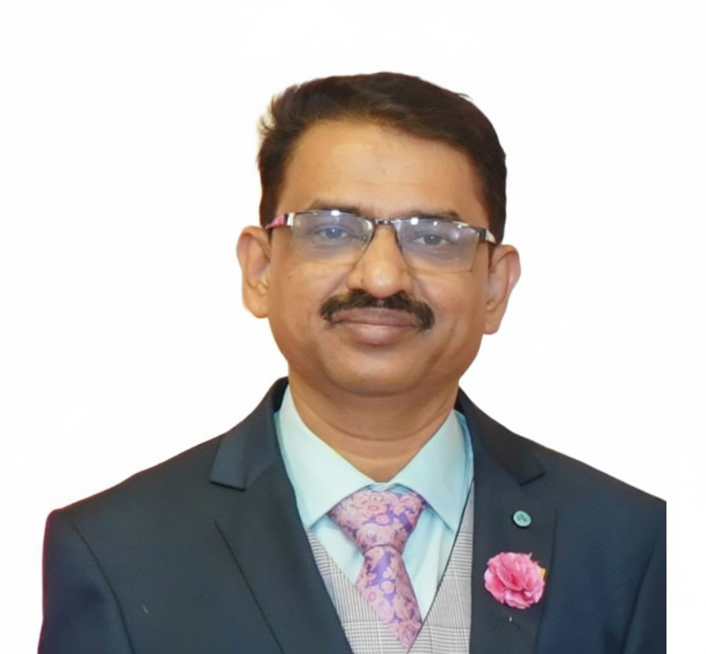
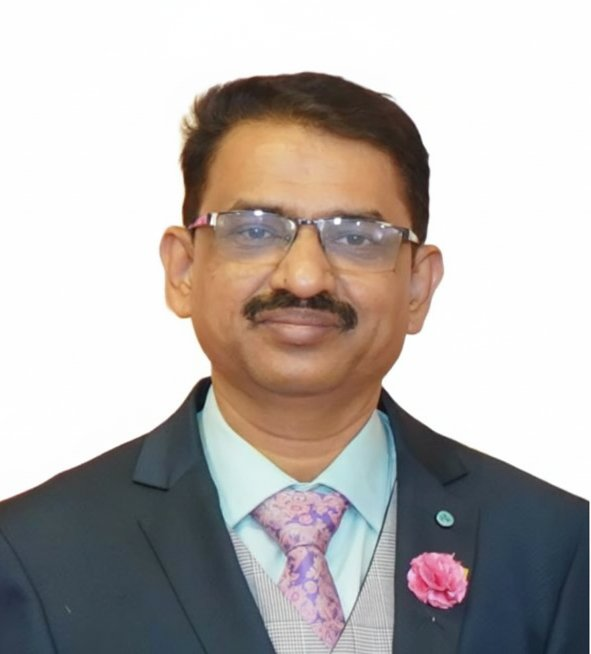
Fix photo gold border to show on all 4 sides + updated photo
- Moved gold border from offset .photo-bg to .photo-placeholder for full 4-sided frame
- .photo-bg now acts as subtle gold shadow behind the photo
- Replaced photo with revised version

diff --git a/assets/css/style.css b/assets/css/style.css
@@ -510,19 +510,22 @@ section {
 
 .hero-photo-frame .photo-bg {
   position: absolute;
-  top: 12px;
-  left: 12px;
+  top: 8px;
+  left: 8px;
   width: 100%;
   height: 100%;
-  border: 3px solid var(--gold);
+  background: rgba(200, 150, 62, 0.1);
   border-radius: var(--radius-lg);
+  z-index: 0;
 }
 
 .hero-photo-frame .photo-placeholder {
   position: relative;
+  z-index: 1;
   width: 100%;
   height: 100%;
   border-radius: var(--radius-lg);
+  border: 3px solid var(--gold);
   background: linear-gradient(135deg, rgba(200, 150, 62, 0.2), rgba(15, 43, 84, 0.5));
   display: flex;
   align-items: center;